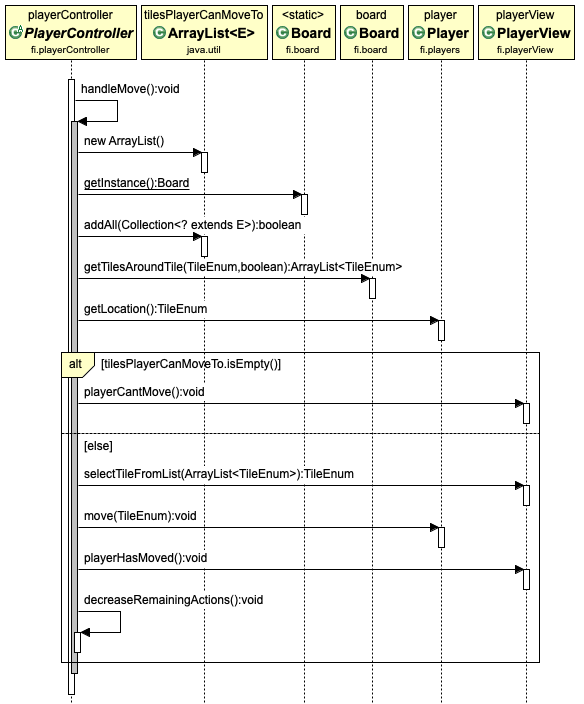
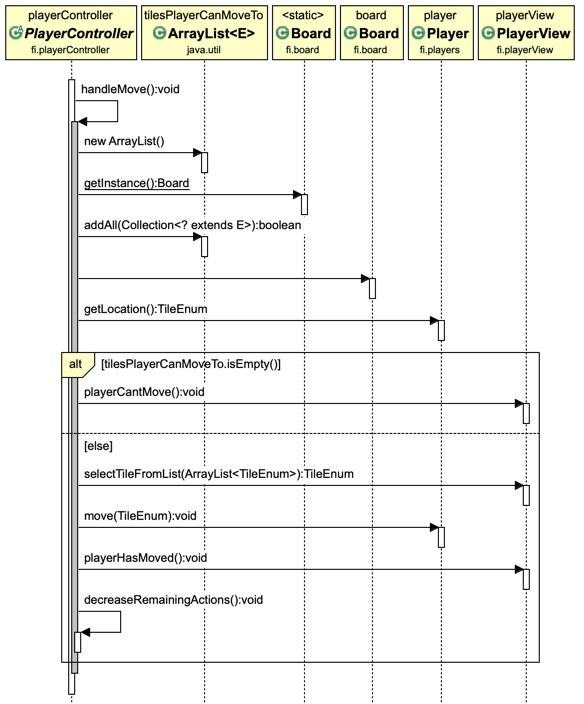
created test to check get tiles around method in board class and also modified sequence diagrams.

diff --git a/ForbiddenIsland/src/ut/board/BoardTest.java b/ForbiddenIsland/src/ut/board/BoardTest.java
@@ -72,6 +72,65 @@ public class BoardTest {
 		
 	}
 	
+	
+	@Test
+	public void getTilesAroundTest() {
+		
+		//TODO: TEST SUGGEST THAT WE MIGN NEED TO REFACTOR METHOD - split into diagonal and adjacent.
+		TileEnum nameOfTileWith2AdjacentAnd3DiagonalTiles = board.getIslandTiles().get(2).getTileName();
+		TileEnum nameOfTileWith4AdjacentAnd3DiagonalTiles = board.getIslandTiles().get(4).getTileName();
+		ArrayList<TileEnum> tilesAroundTile;
+		TileEnum nameOfTileToSink;
+		System.out.println(board.toString());
+		
+		
+		// Making sure that the correct number of adjacent unsunken tiles is returned
+		tilesAroundTile = board.getTilesAroundTile(nameOfTileWith2AdjacentAnd3DiagonalTiles, true);
+		assertEquals("This tile should have only 2 unsunken adjacent tiles.", 2, tilesAroundTile.size());
+		
+		tilesAroundTile = board.getTilesAroundTile(nameOfTileWith4AdjacentAnd3DiagonalTiles, true);
+		assertEquals("This tile should have only 2 unsunken adjacent tiles.", 4, tilesAroundTile.size());
+		
+		
+		// Making sure that the correct number of  unsunken tiles (including diagonal) is returned
+		tilesAroundTile = board.getTilesAroundTile(nameOfTileWith2AdjacentAnd3DiagonalTiles, false);
+		assertEquals("This tile should have only 5 unsunken total tiles (including diagonal) around it.", 5, tilesAroundTile.size());
+		
+		tilesAroundTile = board.getTilesAroundTile(nameOfTileWith4AdjacentAnd3DiagonalTiles, false);
+		assertEquals("This tile should have only 7 unsunken tiles (including diagonal) around it.", 7, tilesAroundTile.size());
+		
+		
+		
+		// Making sure that only unsunken tiles are returned
+		nameOfTileToSink = board.getTilesAroundTile(nameOfTileWith4AdjacentAnd3DiagonalTiles, true).get(0);
+		board.floodTile(nameOfTileToSink);
+		board.floodTile(nameOfTileToSink);
+		
+		tilesAroundTile = board.getTilesAroundTile(nameOfTileWith4AdjacentAnd3DiagonalTiles, true);
+		assertEquals("This tile should now have only 3 unsunken adjacent tiles around it.", 3, tilesAroundTile.size());
+
+	}
+	
+	
+	
+	@Test
+	public void getTilesToShoreUpAroundTest() {
+		TileEnum nameOfTileWithFourAdjacentTiles = board.getIslandTiles().get(9).getTileName();
+		ArrayList<TileEnum> tilesToShoreUp;
+		ArrayList<TileEnum> tilesAroundTile;
+		
+		tilesToShoreUp = board.getTilesToShoreUpAround(nameOfTileWithFourAdjacentTiles);
+		assertTrue("There should be no tiles to shore up once the board is created.", tilesToShoreUp.isEmpty());
+	
+		for(TileEnum tileName: board.getTilesAroundTile(nameOfTileWithFourAdjacentTiles, true)) {
+			//flood all the tiles around a given tile
+			board.floodTile(tileName);
+		}
+		tilesToShoreUp = board.getTilesToShoreUpAround(nameOfTileWithFourAdjacentTiles);
+		assertEquals("After sinking a all 4 adjacent tiles around such a tile, getTilesToShoreUpAround method should return 4 tiles", 4, tilesToShoreUp.size());
+
+	}
+	
 	@Test
 	public void getNearestTileTest() {
 		TileEnum nameOfFirstTileLaidOnBoard = board.getIslandTiles().get(0).getTileName();
@@ -90,8 +149,6 @@ public class BoardTest {
 		
 		assertTrue("There should only be one unsunken tile in this case.", nearestTiles.size() == 1);
 		assertTrue("The nearest tile should be the only unsunken tile.", nearestTiles.get(0) == nameOfLastastTileLaidOnBoard);
-		
-		
 	}
 
 }
